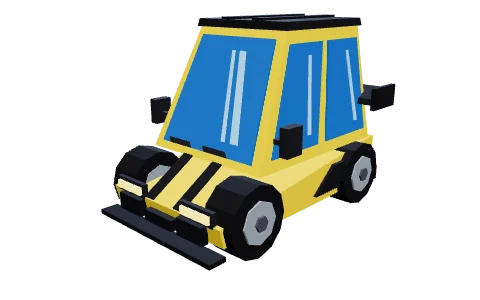
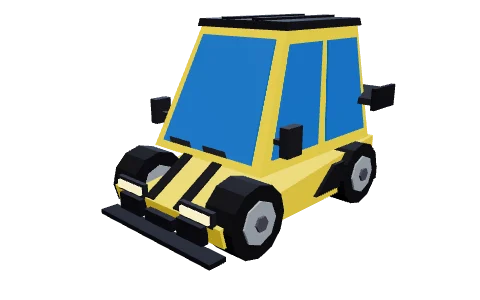
Vehicle look: lamp glow on the real lamps, no glass stripes, materials on all player cars
- night.js: head/tail glow dots sit on each model's own lamps (lampSpot),
  follow the car's height and ramp pitch; no beam while airborne
- cartoon.js: glass panes without the painted white highlight stripes;
  models record their lamp positions
- pbr.js: sky-dome reflection map instead of the room map; clear-coat
  paint, reflective glass, softer metal; baked shading toward the sills;
  applied to all five player cars
- thumbnails regenerated

Claude-Session: https://claude.ai/code/session_01YZpMi6JfbRkSRdUtfdwGgW

diff --git a/src/render/pbr.js b/src/render/pbr.js
@@ -6,8 +6,9 @@
 //   sidewalk   paving blocks with joints: detail + normal map
 //   building   one type: the brick walls of the city blocks (running
 //              bond, recessed mortar): detail + normal map
-//   vehicle    one car: the coupe, split into paint (clear coat), metal,
-//              glass, rubber and plastic, with a shared reflection map
+//   vehicle    the five player cars, split into paint (clear coat),
+//              metal, glass, rubber and plastic, with a shared sky
+//              reflection map and baked-in shading toward the sills
 //   contact    a soft dark contact shadow under the cars
 // The ground and the buildings keep their single merged meshes: a shader
 // patch on their existing materials picks the surface by vertex colour and
@@ -16,11 +17,10 @@
 // Mobile: textures are generated once (512 px), no extra draw calls on the
 // ground or buildings, one reflection map for the whole scene.
 import * as THREE from "three";
-import { RoomEnvironment } from "three/addons/environments/RoomEnvironment.js";
 import { mergeGeometries } from "three/addons/utils/BufferGeometryUtils.js";
 import { asphaltTextures, pavingTextures, brickTextures } from "./textures.js";
 import { K } from "./kit.js";
-import { buildRaw, coupe } from "./cartoon.js";
+import { buildRaw, PLAYER_MODELS } from "./cartoon.js";
 
 export class MaterialPass {
   constructor(renderer, scene, theme) {
@@ -29,7 +29,7 @@ export class MaterialPass {
     this.on = false;
     this.night = false;
     const pm = new THREE.PMREMGenerator(renderer);
-    this.env = pm.fromScene(new RoomEnvironment(), 0.04).texture;
+    this.env = pm.fromScene(skyEnvironment(), 0.02).texture;
     pm.dispose();
     const as = asphaltTextures(), pv = pavingTextures(), br = brickTextures();
     this.uniforms = {
@@ -136,10 +136,10 @@ uniform vec3 uRoad, uWalk, uBrick;`,
     this.night = night;
     for (const m of Object.values(this.vehicleMats)) if (m.envMapIntensity != null) m.envMapIntensity = (night ? 0.35 : 1) * (m.userData.env ?? 1);
   }
-  // The coupe with surface materials (null for other cars: test scope).
+  // A player car with surface materials (null if the id is unknown).
   vehicle(id) {
-    if (id !== "starter") return null;
-    return materialize(buildRaw(coupe), this.vehicleMats);
+    const make = PLAYER_MODELS[id];
+    return make ? materialize(buildRaw(make), this.vehicleMats) : null;
   }
   update(sim) {
     if (this.on) this.shadows.update(sim);
@@ -147,6 +147,27 @@ uniform vec3 uRoad, uWalk, uBrick;`,
 }
 
 // ------------------------------------------------------------- vehicles
+// The reflection map: a sky dome (bright zenith, pale warm horizon, a
+// darker street below) and one soft sun patch, prefiltered once (PMREM).
+function skyEnvironment() {
+  const scene = new THREE.Scene();
+  const geo = new THREE.SphereGeometry(10, 32, 16);
+  const top = new THREE.Color(0x8fc4ff), hor = new THREE.Color(0xfff4e2), low = new THREE.Color(0x4a4a50), floor = new THREE.Color(0x26262b);
+  const pos = geo.attributes.position, col = new Float32Array(pos.count * 3), c = new THREE.Color();
+  for (let i = 0; i < pos.count; i++) {
+    const h = pos.getY(i) / 10;
+    if (h >= 0) c.copy(hor).lerp(top, Math.pow(h, 0.6));
+    else c.copy(low).lerp(floor, Math.min(1, -h * 2.5));
+    col.set([c.r, c.g, c.b], i * 3);
+  }
+  geo.setAttribute("color", new THREE.BufferAttribute(col, 3));
+  scene.add(new THREE.Mesh(geo, new THREE.MeshBasicMaterial({ vertexColors: true, side: THREE.BackSide })));
+  const sun = new THREE.Mesh(new THREE.CircleGeometry(1.4, 16), new THREE.MeshBasicMaterial({ color: new THREE.Color(0xfff6e0).multiplyScalar(6) }));
+  sun.position.set(-4, 7, 4);
+  sun.lookAt(0, 0, 0);
+  scene.add(sun);
+  return scene;
+}
 const CLASS = new Map([
   [0x2a74c8, "glass"], [0x9fd6ff, "glass"],
   [0x1d1c21, "rubber"], [0x141317, "rubber"],
@@ -161,12 +182,14 @@ function vehicleMaterials(env) {
     return m;
   };
   return {
-    // (Reflections kept low: the colours stay as saturated as before.)
-    paint: mk(THREE.MeshPhysicalMaterial, { roughness: 0.42, metalness: 0.05, clearcoat: 0.6, clearcoatRoughness: 0.15 }, 0.45),
-    metal: mk(THREE.MeshStandardMaterial, { roughness: 0.26, metalness: 0.92 }, 1.1),
-    glass: mk(THREE.MeshStandardMaterial, { roughness: 0.08, metalness: 0.1 }, 0.7),
-    rubber: mk(THREE.MeshStandardMaterial, { roughness: 0.96, metalness: 0 }, 0.2),
-    plastic: mk(THREE.MeshStandardMaterial, { roughness: 0.58, metalness: 0 }, 0.5),
+    // Paint: a satin base under a glossy clear coat. The sky map makes the
+    // roof and hood pick up a bright sky and the sides a darker street, so
+    // the shape reads without washing the colour out.
+    paint: mk(THREE.MeshPhysicalMaterial, { roughness: 0.55, metalness: 0.0, clearcoat: 0.8, clearcoatRoughness: 0.1 }, 0.38),
+    metal: mk(THREE.MeshStandardMaterial, { roughness: 0.38, metalness: 0.65 }, 0.9),
+    glass: mk(THREE.MeshPhysicalMaterial, { roughness: 0.06, metalness: 0, clearcoat: 1, clearcoatRoughness: 0.04 }, 0.6),
+    rubber: mk(THREE.MeshStandardMaterial, { roughness: 0.95, metalness: 0 }, 0.15),
+    plastic: mk(THREE.MeshStandardMaterial, { roughness: 0.62, metalness: 0 }, 0.4),
   };
 }
 // Merge an unbaked model's parts by surface class (one mesh per class,
@@ -175,6 +198,17 @@ function materialize(outer, mats) {
   const inner = outer.children[0];
   inner.updateMatrixWorld(true);
   const wheels = new Set(inner.userData.wheels || []);
+  // Height range of the body in the inner model's frame (for the baked
+  // occlusion): from the lowest body part up about a metre.
+  let yLow = Infinity;
+  inner.traverse((o) => {
+    if (!o.isMesh) return;
+    for (let q = o.parent; q && q !== inner; q = q.parent) if (wheels.has(q)) return;
+    o.geometry.computeBoundingBox();
+    const b = o.geometry.boundingBox.clone().applyMatrix4(new THREE.Matrix4().multiplyMatrices(inner.matrixWorld.clone().invert(), o.matrixWorld));
+    yLow = Math.min(yLow, b.min.y);
+  });
+  const ySpan = 0.9;
   const merge = (root, isWheel) => {
     const inv = root.matrixWorld.clone().invert();
     const by = new Map();
@@ -189,7 +223,15 @@ function materialize(outer, mats) {
       for (const k of Object.keys(g.attributes)) if (k !== "position" && k !== "normal") g.deleteAttribute(k);
       g.applyMatrix4(new THREE.Matrix4().multiplyMatrices(inv, o.matrixWorld));
       const c = o.material.color, n = g.attributes.position.count, col = new Float32Array(n * 3);
-      for (let i = 0; i < n; i++) col.set([c.r, c.g, c.b], i * 3);
+      // Baked occlusion: the body darkens toward the sills and the
+      // underside (not the wheels, not the glass), so the car sits on the
+      // road instead of glowing evenly.
+      const pos = g.attributes.position;
+      for (let i = 0; i < n; i++) {
+        const y = pos.getY(i);
+        const k = isWheel || cls === "glass" ? 1 : 0.6 + 0.4 * Math.min(1, Math.max(0, (y - yLow) / ySpan));
+        col.set([c.r * k, c.g * k, c.b * k], i * 3);
+      }
       g.setAttribute("color", new THREE.BufferAttribute(col, 3));
       (by.get(cls) || by.set(cls, []).get(cls)).push(g);
       remove.push(o);

diff --git a/src/render/cartoon.js b/src/render/cartoon.js
@@ -74,11 +74,11 @@ export function panel(p, q, t, color, inside, o) {
   const lift = (a, k) => a.clone().addScaledVector(n, k);
   return hexa(p, [lift(q[0], 0.002), lift(q[1], 0.002), lift(q[2], 0.002), lift(q[3], 0.002), lift(q[0], t), lift(q[1], t), lift(q[2], t), lift(q[3], t)], color, o);
 }
-// Glass pane on a face with two slanted planar highlight stripes.
-export function glass(p, q, inside, { stripes = 2, tint = GLASS } = {}) {
+// Glass pane on a face. (It used to carry painted white highlight
+// stripes; they read as artificial lines, so the glass is plain now and
+// its shine comes from the lighting. `stripes` is kept for callers.)
+export function glass(p, q, inside, { tint = GLASS } = {}) {
   panel(p, q, 0.03, tint, inside, GLASS_OPTS);
-  const marks = stripes === 2 ? [[0.16, 0.24], [0.3, 0.34]] : stripes === 1 ? [[0.2, 0.28]] : [];
-  for (const [a, b] of marks) panel(p, subQuad(q, a, b, 0.12, 0.88, 0.16), 0.04, GLASS_HI, inside, GLASS_OPTS);
 }
 // A chunky cartoon wheel (spins and steers: kept as a group).
 export function wheel(p, x, z, r, w, rim = STEEL, tread = false) {
@@ -275,6 +275,11 @@ export function faceKit(s, { grille = 0x55535c, bumper = STEEL, lampW = 0.44, la
   const fh = Math.max(0.3, o.belt - o.noseDrop - fy - 0.1);
   box(g, grilleW, fh, 0.08, TRIM, 0, fy, zf + 0.02);
   for (let i = 0; i < 4; i++) box(g, grilleW - 0.08, 0.04, 0.1, grille, 0, fy + 0.05 + (i * (fh - 0.1)) / 3, zf + 0.0);
+  // Where the lamps are (night.js puts its glow dots on them).
+  g.userData.lamps = {
+    head: [o.W / 2 - 0.3, round ? fy + 0.2 : fy + fh - lampH / 2 - 0.02, zf - 0.06],
+    tail: [o.W / 2 - 0.26, o.clear + 0.48, zb + 0.03],
+  };
   for (const sx of [-1, 1]) {
     if (round) {
       const m = add(g, ni(new THREE.CylinderGeometry(lampH, lampH, 0.1, 10)), 0xfff3c4, sx * (o.W / 2 - 0.3), fy + 0.2, zf - 0.02, LAMP);
@@ -338,6 +343,7 @@ export function supercar() {
       v3(sx * (o.W / 2 + 0.01), o.belt - 0.18, 0.5), v3(sx * (o.W / 2 + 0.06), o.belt - 0.18, 0.5), v3(sx * (o.W / 2 + 0.06), o.belt - 0.18, 0.9), v3(sx * (o.W / 2 + 0.01), o.belt - 0.18, 0.9)], BLK);
     box(g, 0.36, 0.2, 0.07, 0xd8202c, sx * (o.W / 2 - 0.26), o.clear + 0.34, zb - 0.02, TAIL);
   }
+  g.userData.lamps = { head: [0.6, o.clear + 0.31, zf - 0.04], tail: [o.W / 2 - 0.26, o.clear + 0.44, zb + 0.03] };
   box(g, 0.5, 0.14, 0.1, BLK, 0, o.clear + 0.0, zf - 0.02);
   box(g, o.W + 0.1, 0.06, 0.24, BLK, 0, o.clear - 0.12, zf - 0.08);
   box(g, o.W + 0.06, 0.2, 0.2, BLK, 0, o.clear - 0.06, zb + 0.04);
@@ -671,4 +677,34 @@ export function targetCar() {
   box(g, 0.4, 0.24, 0.42, 0x6b4a2a, 0.3, top + 0.2, zc - 0.05);
   bake(g);
   return scaled(g);
+}
+
+// Lamp positions per car (local metres, x = half the lamp spacing, y up,
+// z toward the rear), for night.js's glow dots: keys are player ids,
+// "police:<kind>", "civ:<type>" and "target". Built once per key.
+const LAMP_SPOTS = new Map();
+const LAMP_MAKERS = {
+  ...PLAYER_MODELS,
+  "police:patrol": policeCar, "police:armored": policeArmored, target: targetCar,
+  ...Object.fromEntries(Object.entries(TRAFFIC_TYPES).map(([k, f]) => ["civ:" + k, f])),
+};
+export function lampSpot(key) {
+  if (LAMP_SPOTS.has(key)) return LAMP_SPOTS.get(key);
+  let spot = null;
+  const make = LAMP_MAKERS[key];
+  if (make) {
+    const out = buildRaw(make);
+    let holder = null;
+    out.traverse((o) => { if (!holder && o.userData.lamps) holder = o; });
+    // Player/police/target models come wrapped (CAR_SCALE inside, the
+    // mini's own scale outside); raw civilian groups are instanced at
+    // CAR_SCALE.
+    let k = holder === out ? CAR_SCALE : 1;
+    for (let o = holder; o; o = o === out ? null : o.parent) k *= o.scale.x;
+    const lamps = holder?.userData.lamps;
+    if (lamps) spot = { head: lamps.head.map((v) => v * k), tail: lamps.tail.map((v) => v * k) };
+  }
+  spot ||= { head: [0.62, 0.62, -1.3], tail: [0.62, 0.66, 1.3] };
+  LAMP_SPOTS.set(key, spot);
+  return spot;
 }

diff --git a/src/render/night.js b/src/render/night.js
@@ -8,6 +8,8 @@
 //     target and civilian traffic.
 // Signs glow by using their own texture as an emissive map (scene.js).
 import * as THREE from "three";
+import { lampSpot } from "./cartoon.js";
+import { jumpPitch } from "../game/jumps.js";
 
 export const NIGHT = Object.freeze({
   sky: 0x142247, // background and fog
@@ -203,22 +205,36 @@ export class NightLights {
       this.halos.count = this.heads.length;
       this.halos.instanceMatrix.needsUpdate = true;
     }
-    // Vehicles: a beam on the road ahead, two head lamps, two tail lamps.
-    const cars = [sim.player];
-    for (const c of sim.police) if (c.state === "active") cars.push(c);
-    if (sim.target?.state === "fleeing") cars.push(sim.target);
-    for (const t of sim.city?.traffic || []) if (t.state !== "wreck" && !t.parked) cars.push(t);
+    // Vehicles: a beam on the road ahead, two head lamps, two tail lamps,
+    // the dots sitting on each model's own lamps (lampSpot), following the
+    // car's height (elevated road, jumps) and its pitch off a ramp.
+    const cars = [[sim.player, sim.vehicleId || "starter"]];
+    for (const c of sim.police) if (c.state === "active") cars.push([c, "police:" + (c.heavy || "patrol")]);
+    if (sim.target?.state === "fleeing") cars.push([sim.target, "target"]);
+    for (const t of sim.city?.traffic || []) if (t.state !== "wreck" && !t.parked) cars.push([t, "civ:" + (t.vtype || "city")]);
     let nb = 0, nd = 0;
-    for (const car of cars) {
-      if (nb >= 64) break;
-      const fx = -Math.sin(car.angle), fz = -Math.cos(car.angle), rx = Math.cos(car.angle), rz = -Math.sin(car.angle);
-      this.q.setFromAxisAngle(this.v.set(0, 1, 0), car.angle);
-      this.m.compose(this.v.set(car.x + fx * 6.5, 0.22, car.z + fz * 6.5), this.q, this.s.set(4.6, 1, 10));
-      this.beams.setMatrixAt(nb++, this.m);
+    const e = (this.euler ||= new THREE.Euler(0, 0, 0, "YXZ")), car4 = (this.car4 ||= new THREE.Matrix4()), p3 = (this.p3 ||= new THREE.Vector3());
+    for (const [car, key] of cars) {
+      if (nd >= 128 || nb >= 64) break;
+      const y0 = car.y || 0;
+      const spot = lampSpot(key);
+      e.set(jumpPitch(car) || 0, car.angle, 0);
+      this.q.setFromEuler(e);
+      car4.compose(this.v.set(car.x, y0, car.z), this.q, this.s.set(1, 1, 1));
+      if (!car.air) {
+        const fx = -Math.sin(car.angle), fz = -Math.cos(car.angle);
+        this.q.setFromAxisAngle(this.v.set(0, 1, 0), car.angle);
+        this.m.compose(this.v.set(car.x + fx * 6.5, y0 + 0.22, car.z + fz * 6.5), this.q, this.s.set(4.6, 1, 10));
+        this.beams.setMatrixAt(nb++, this.m);
+      }
+      this.q.setFromEuler(e);
       for (const side of [-1, 1]) {
-        this.m.compose(this.v.set(car.x + fx * 2.15 + rx * side * 0.68, 0.62, car.z + fz * 2.15 + rz * side * 0.68), this.q, this.s.set(1, 0.7, 0.5));
+        const [hx, hy, hz] = spot.head, [tx, ty, tz] = spot.tail;
+        p3.set(side * hx, hy, hz).applyMatrix4(car4);
+        this.m.compose(p3, this.q, this.s.set(0.9, 0.55, 0.35));
         this.dots.setMatrixAt(nd, this.m);
-        this.m.compose(this.v.set(car.x - fx * 2.15 + rx * side * 0.7, 0.7, car.z - fz * 2.15 + rz * side * 0.7), this.q, this.s.set(1.2, 0.6, 0.5));
+        p3.set(side * tx, ty, tz).applyMatrix4(car4);
+        this.m.compose(p3, this.q, this.s.set(1.1, 0.7, 0.35));
         this.tails.setMatrixAt(nd, this.m);
         nd++;
       }
